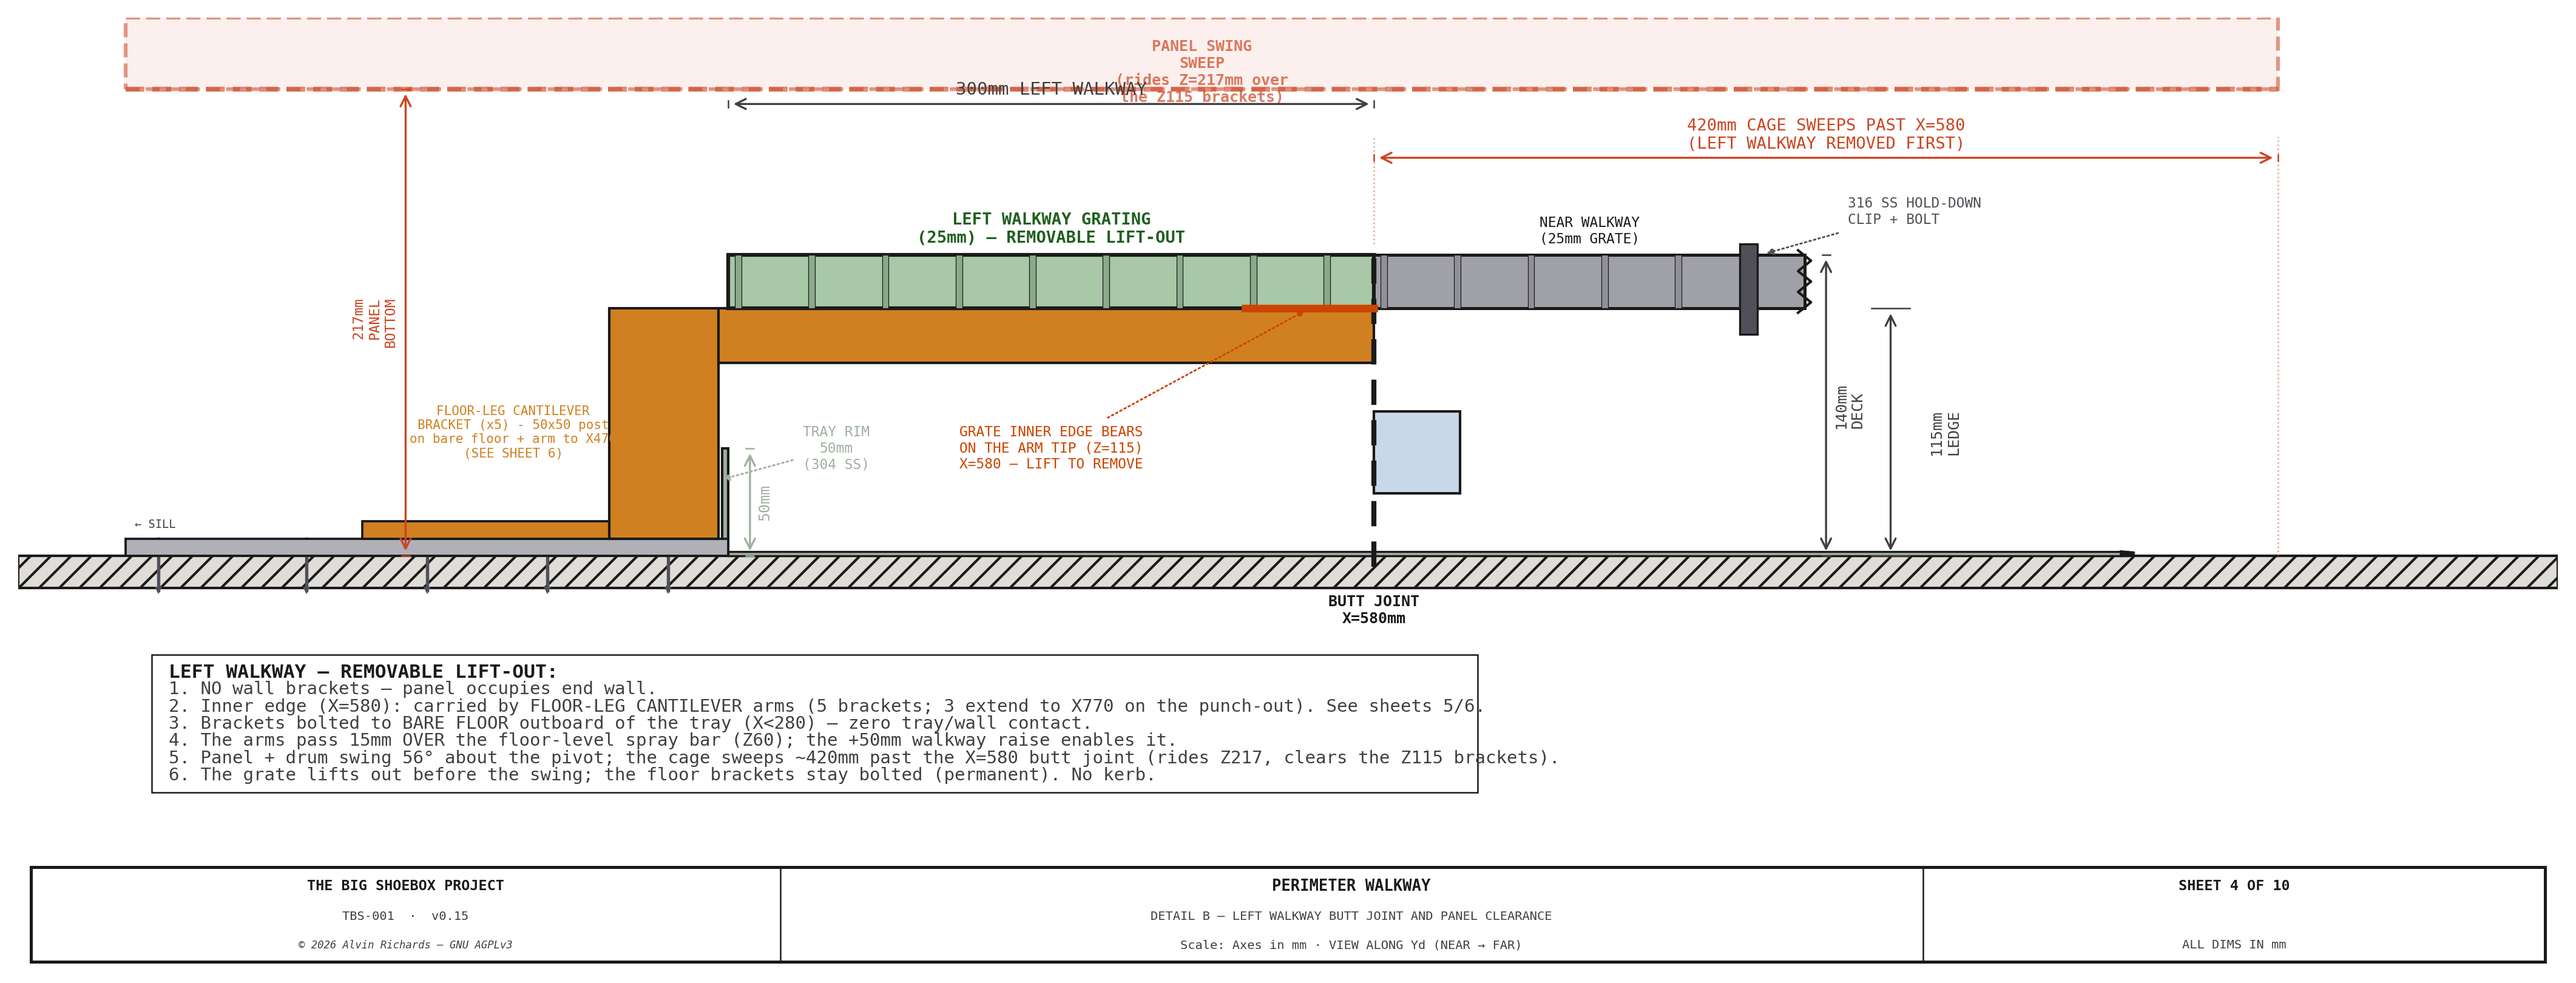
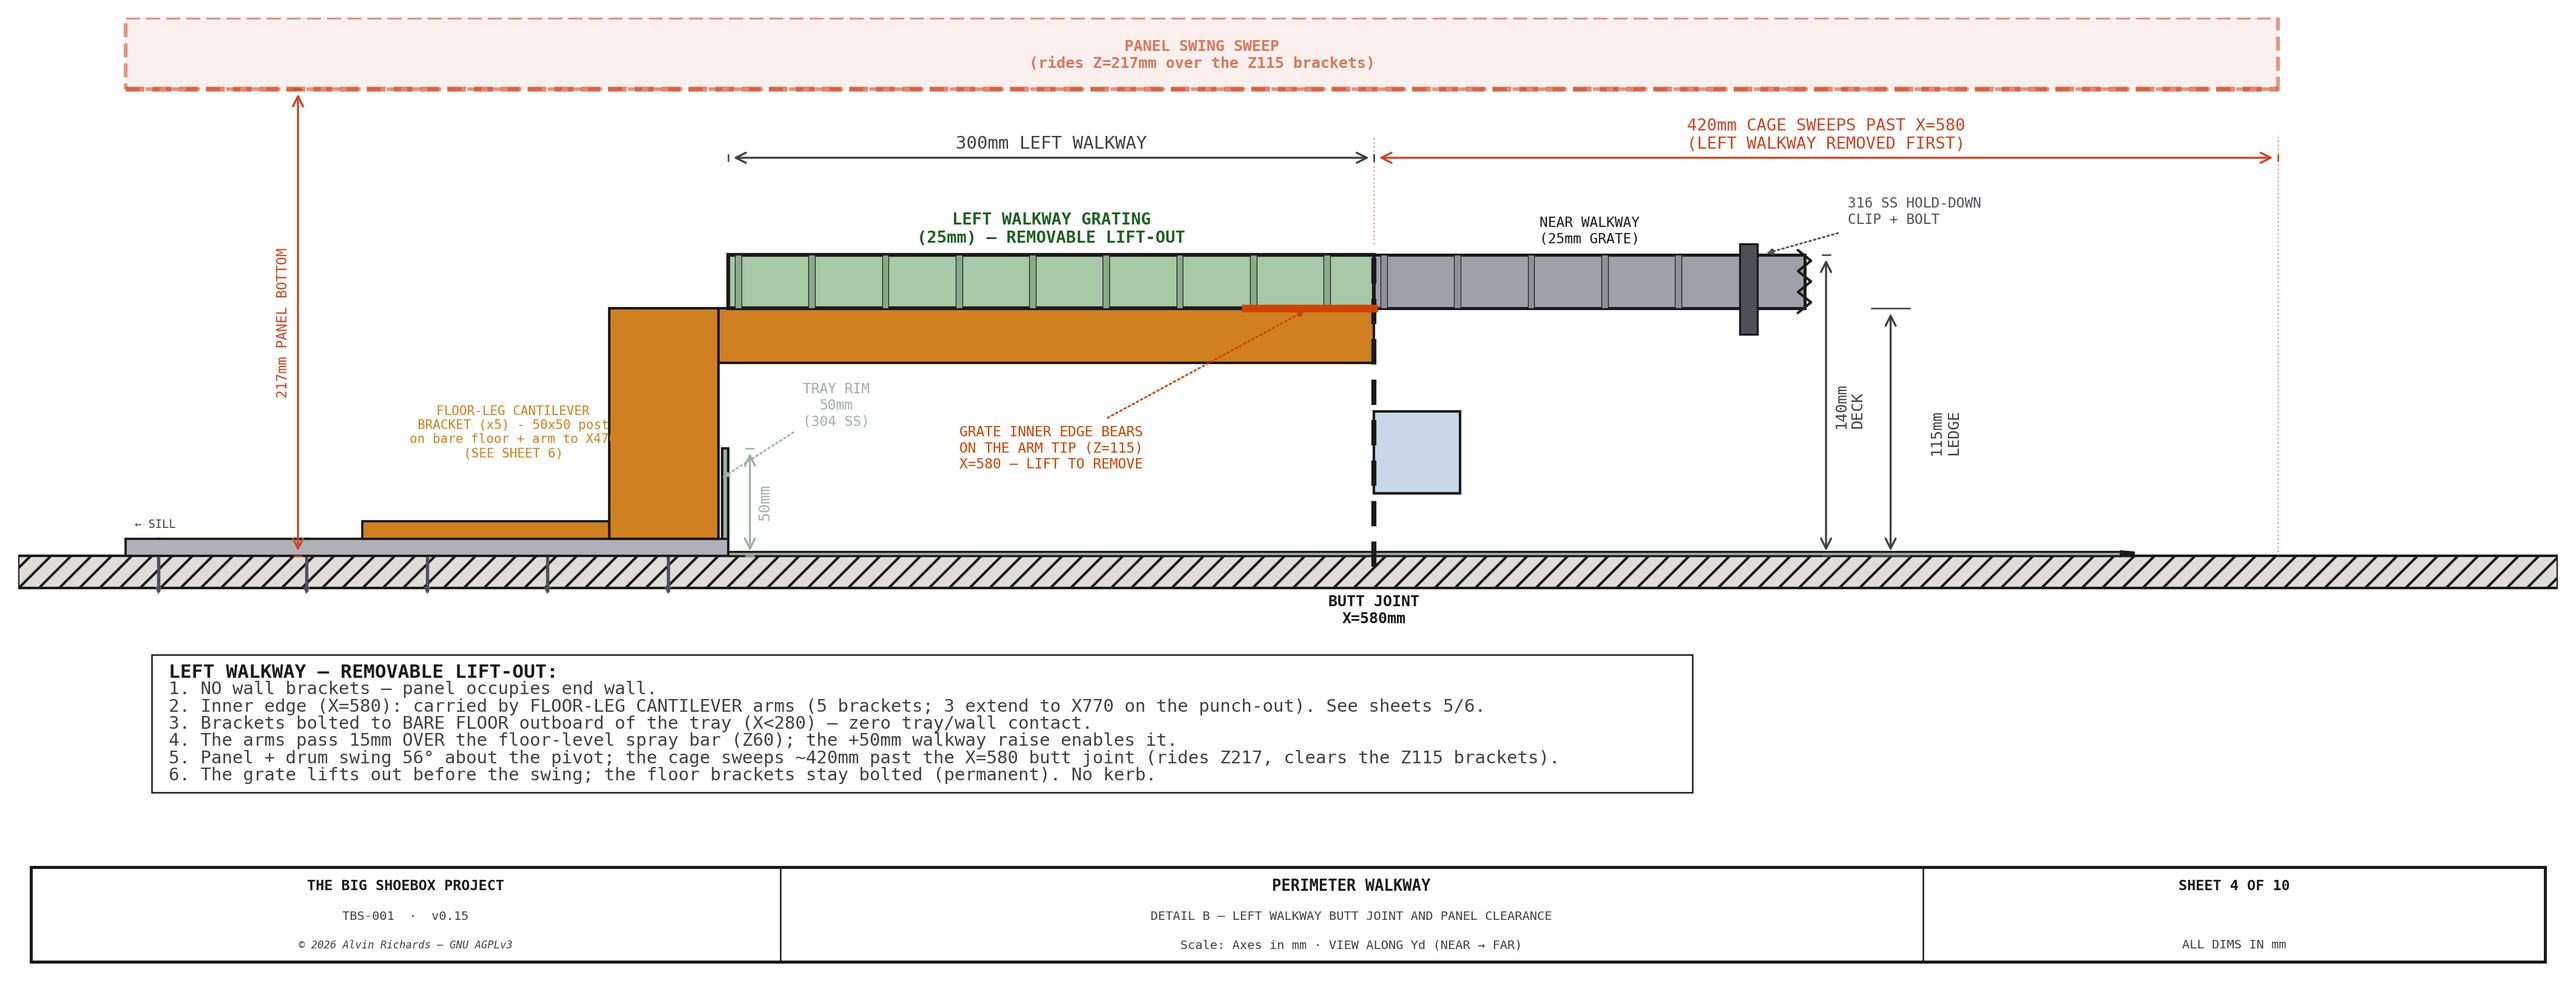
Tidy labels

Changed region(s): [[0.3731, 0.0309, 0.5286, 0.1543], [0.311, 0.4012, 0.342, 0.463], [0.1244, 0.3086, 0.1555, 0.3395]]

diff --git a/src/generators/generate_walkway_diagram.py b/src/generators/generate_walkway_diagram.py
@@ -1387,7 +1387,7 @@ def sheet4():
             zz, color=C_OUT, lw=1.0, zorder=5)
     # Tray rim label
     leader(ax, (tray_x - 5), (PROC_TRAY_RIM / 2 + 10),
-           (tray_x + 50), (PROC_TRAY_RIM),
+           (tray_x + 50), (PROC_TRAY_RIM + 20),
            f"TRAY RIM\n{PROC_TRAY_RIM}mm\n(304 SS)", color=C_TRAY, fs=5.5,
            ha="center", va="center", arrow_style="-|>", font=FONT)
 
@@ -1439,7 +1439,7 @@ def sheet4():
     ax.plot([(0), (PANEL_INNER)], [(PANEL_FLOOR_GAP), (PANEL_FLOOR_GAP)],
             color="#CC4422", lw=2.0, ls="--", alpha=0.6, zorder=8)
     ax.text((PANEL_INNER / 2), (PANEL_Z_TOP - 10),
-            f"PANEL SWING\nSWEEP\n(rides Z={PANEL_FLOOR_GAP}mm over\nthe Z115 brackets)",
+            f"PANEL SWING SWEEP\n(rides Z={PANEL_FLOOR_GAP}mm over the Z115 brackets)",
             ha="center", va="top", fontsize=6, color="#CC4422",
             fontweight="bold", **FONT, alpha=0.7, zorder=15)
 
@@ -1528,7 +1528,7 @@ def sheet4():
             color="#CC4422", lw=0.6, ls=":", alpha=0.5, zorder=3)
 
     # ── Left walkway span dimension ──────────────────────────────────────────
-    draw_dim_h(ax, (LEFT_WK_L), (LEFT_WK_R), (grate_top + 70),
+    draw_dim_h(ax, (LEFT_WK_L), (LEFT_WK_R), (grate_top + 45),
                f"{WALKWAY_W}mm LEFT WALKWAY", offset=(5), fs=7, font=FONT)
 
     # ── Height dimensions (right side) ───────────────────────────────────────
@@ -1544,8 +1544,8 @@ def sheet4():
                f"{PROC_TRAY_RIM}mm", offset=(6), fs=6, right=True,
                color=C_TRAY, font=FONT)
     # Panel bottom
-    draw_dim_v(ax, (LEFT_WK_L - 150), (0), (PANEL_FLOOR_GAP),
-               f"{PANEL_FLOOR_GAP}mm\nPANEL\nBOTTOM", offset=(6), fs=5.5, right=False,
+    draw_dim_v(ax, (LEFT_WK_L - 200), (0), (PANEL_FLOOR_GAP),
+               f"{PANEL_FLOOR_GAP}mm PANEL BOTTOM", offset=(6), fs=5.5, right=False,
                color="#CC4422", font=FONT)
 
     # ── Notes ────────────────────────────────────────────────────────────────
@@ -1560,7 +1560,7 @@ def sheet4():
         f"5. Panel + drum swing {SWING_LOCK_DEG}\u00b0 about the pivot; the cage sweeps ~{SWEEP_OVER}mm past the X={LEFT_WK_R} butt joint (rides Z{PANEL_FLOOR_GAP}, clears the Z115 brackets).",
         f"6. The grate lifts out before the swing; the floor brackets stay bolted (permanent). No kerb.",
     ]
-    draw_notes(ax, notes, notes_x, notes_top, spacing=(8), fs=7, width=(600), font=FONT)
+    draw_notes(ax, notes, notes_x, notes_top, spacing=8, fs=7, width=700, font=FONT)
 
     # ── Title block ───────────────────────────────────────────────────────────
     title_block(ax, "SHEET 4 OF 10",
